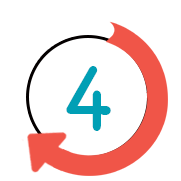
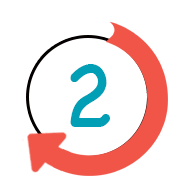
鱼游戏倒数图片更改

Changed region(s): [[0.3591, 0.3315, 0.6354, 0.7459]]

diff --git a/bin/js/Index.js b/bin/js/Index.js
@@ -1,6 +1,6 @@
 // 程序入口，本工程仅用于切换各个动画进行测试
 // 游戏名称，修改这个变量值来切换不同游戏，mole：打地鼠，fish：拍鱼，balloon：拍气球，spider：蜘蛛和单词
-var gameName = "spider";
+var gameName = "fish";
 if (gameName == "mole") {
     //打地鼠游戏
     var config = {

diff --git a/src/Index.ts b/src/Index.ts
@@ -1,7 +1,7 @@
 // 程序入口，本工程仅用于切换各个动画进行测试
 
 // 游戏名称，修改这个变量值来切换不同游戏，mole：打地鼠，fish：拍鱼，balloon：拍气球，spider：蜘蛛和单词
-let gameName = "spider"; 
+let gameName = "fish"; 
 
 if(gameName == "mole") {
     //打地鼠游戏
